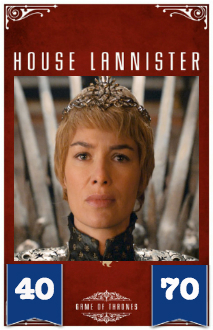
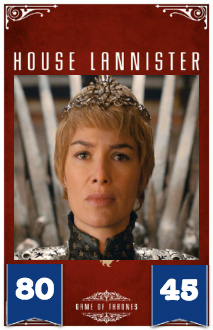
Increase the fourth card

diff --git a/main.js b/main.js
@@ -1,20 +1,21 @@
 // Create the cards
-function card(family, name, power, def, dead) {
+function card(family, name, power, def) {
   this.family = family;
   this.name = name;
   this.power = power;
   this.def = def;
-  this.dead = dead
 }
 
-var jonSnow = new card("stark", "JonSnow", 80, 75, false);
-var aryaStark = new card("stark", "AryaStark", 85, 40, false);
-var sansaStark = new card("stark", "SansaStark", 50, 45, false);
-var cerseiLannister = new card("lannister", "CerseiLannister", 40, 70, false);
-var jaimeLannister = new card("lannister", "JaimeLannister", 75, 85, false);
-var tyrionLannister = new card("lannister", "TyrionLannister", 50, 50, false);
-var starkFamily =[jonSnow, aryaStark, sansaStark];
-var lannisterFamily =[cerseiLannister, jaimeLannister, tyrionLannister];
+var jonSnow = new card("stark", "JonSnow", 80, 75);
+var aryaStark = new card("stark", "Arya", 85, 40);
+var sansaStark = new card("stark", "Sansa", 50, 40);
+var benjenStark = new card("stark", "Benjen", 75, 70)
+var cerseiLannister = new card("lannister", "Cersei", 80, 45 );
+var jaimeLannister = new card("lannister", "Jaime", 75, 80);
+var tyrionLannister = new card("lannister", "Tyrion", 50, 50);
+var tywinLannister = new card("lannister", "Tywin", 70, 75);
+var starkFamily =[jonSnow, aryaStark, sansaStark, benjenStark];
+var lannisterFamily =[cerseiLannister, jaimeLannister, tyrionLannister, tywinLannister];
 
 // Declare global variables
 var player = 0;
@@ -29,9 +30,11 @@ var rand = 0;
 var cpuDeletedCard1;
 var cpuDeletedCard2;
 var cpuDeletedCard3;
+var cpuDeletedCard4;
 var playerDeletedCard1;
 var playerDeletedCard2;
 var playerDeletedCard3;
+var playerDeletedCard4;
 
 
 
@@ -83,20 +86,20 @@ function deployCards(player) {
    if (player == 1) {
       $('#row2').addClass('houseStark');
       $('#row1').addClass('houseLannister');
-       for (let i=0 ; i<3; i++) {
-        $(`<div id="${starkFamily[i].name}" class=${i} data-power=${starkFamily[i].power} data-def=${starkFamily[i].def} data-dead=${starkFamily[i].dead}>`).appendTo('#row2');
+       for (let i=0 ; i<4; i++) {
+        $(`<div id="${starkFamily[i].name}" class=${i} data-power=${starkFamily[i].power} data-def=${starkFamily[i].def}>`).appendTo('#row2');
       }
-       for (let i=0 ; i<3; i++) {
-        $(`<div id="${lannisterFamily[i].name}" class=${i} data-power=${lannisterFamily[i].power} data-def=${lannisterFamily[i].def} data-dead=${lannisterFamily[i].dead}>`).appendTo('#row1');
+       for (let i=0 ; i<4; i++) {
+        $(`<div id="${lannisterFamily[i].name}" class=${i} data-power=${lannisterFamily[i].power} data-def=${lannisterFamily[i].def}>`).appendTo('#row1');
     }
    } else {
       $('#row1').addClass('houseStark');
       $('#row2').addClass('houseLannister');
-      for (let i=0 ; i<3; i++) {
-        $(`<div id="${starkFamily[i].name}" class=${i} data-power=${starkFamily[i].power} data-def=${starkFamily[i].def} data-dead=${starkFamily[i].dead}>`).appendTo('#row1');
+      for (let i=0 ; i<4; i++) {
+        $(`<div id="${starkFamily[i].name}" class=${i} data-power=${starkFamily[i].power} data-def=${starkFamily[i].def}>`).appendTo('#row1');
       }
-       for (let i=0 ; i<3; i++) {
-        $(`<div id="${lannisterFamily[i].name}" class=${i} data-power=${lannisterFamily[i].power} data-def=${lannisterFamily[i].def} data-dead=${lannisterFamily[i].dead}>`).appendTo('#row2');
+       for (let i=0 ; i<4; i++) {
+        $(`<div id="${lannisterFamily[i].name}" class=${i} data-power=${lannisterFamily[i].power} data-def=${lannisterFamily[i].def}>`).appendTo('#row2');
     }
    }
       selectCard(player);
@@ -110,7 +113,6 @@ function selectCard(player) {
     playerCardDef = starkFamily[0].def;
     playerCard = $('#row2 div')[0];
     selection = 0;
-    console.log("cpuDeletedCard1 is" + cpuDeletedCard1 + "cpuDeletedCard2 is" + cpuDeletedCard2 );
     cpuLannisterRandom(cpuDeletedCard1,cpuDeletedCard2,cpuDeletedCard3)
     cardComparing(playerCardPower, playerCardDef, cpuCardPower, cpuCardDef,
       cpuCard, playerCard,rand, cpuDeletedCard1, cpuDeletedCard2, cpuDeletedCard3 )
@@ -133,6 +135,18 @@ function selectCard(player) {
      playerCardDef = starkFamily[2].def;
      playerCard = $('#row2 div')[2];
      selection = 2;
+     console.log(playerCardPower);
+     console.log(playerCardDef);
+     cpuLannisterRandom(cpuDeletedCard1,cpuDeletedCard2,cpuDeletedCard3)
+     cardComparing(playerCardPower, playerCardDef, cpuCardPower, cpuCardDef, cpuCard,
+      playerCard, rand, cpuDeletedCard1, cpuDeletedCard2, cpuDeletedCard3)
+  })
+  $(`#row2 .3`).click(function() {
+    $('#row1 div').css('border', "0");
+     playerCardPower = starkFamily[3].power;
+     playerCardDef = starkFamily[3].def;
+     playerCard = $('#row2 div')[3];
+     selection = 3;
      console.log(playerCardPower);
      console.log(playerCardDef);
      cpuLannisterRandom(cpuDeletedCard1,cpuDeletedCard2,cpuDeletedCard3)
@@ -173,11 +187,22 @@ function selectCard(player) {
      cpuStarkRandom()
      cardComparing(playerCardPower, playerCardDef, cpuCardPower, cpuCardDef, cpuCard, playerCard, rand)
   })
+    $(`#row2 .3`).click(function() {
+    $('#row1 div').css('border', "0");
+     playerCardPower = lannisterFamily[3].power;
+     playerCardDef = lannisterFamily[3].def;
+     playerCard = $('#row2 div')[3];
+     selection = 3;
+     console.log(playerCardPower);
+     console.log(playerCardDef);
+     cpuStarkRandom()
+     cardComparing(playerCardPower, playerCardDef, cpuCardPower, cpuCardDef, cpuCard, playerCard, rand)
+  })
 }
 }
 
 function cpuLannisterRandom(){
-  var arr = [1, 2, 3];
+  var arr = [1, 2, 3, 4];
   rand = Math.random();
   rand *= arr.length;
   rand = Math.floor(rand);
@@ -185,43 +210,43 @@ function cpuLannisterRandom(){
    + "cpuDeletedCard3 is" + cpuDeletedCard3 )
   if (rand == 0 && cpuDeletedCard1 == 1){
      console.log("run through here")
-    cpuLannisterRandom(cpuDeletedCard1, cpuDeletedCard2,cpuDeletedCard3)
+    cpuLannisterRandom()
   } else if (rand == 1 && cpuDeletedCard2 == 1){
     console.log("run through here")
-    cpuLannisterRandom(cpuDeletedCard1, cpuDeletedCard2,cpuDeletedCard3)
+    cpuLannisterRandom()
   } else if (rand == 2 && cpuDeletedCard3 == 1){
     console.log("run through here")
-    cpuLannisterRandom(cpuDeletedCard1, cpuDeletedCard2,cpuDeletedCard3)
+    cpuLannisterRandom()
+  } else if (rand == 3 && cpuDeletedCard4 == 1){
+    cpuLannisterRandom()
   }
   cpuCard = $('#row1 div')[rand];
   $(cpuCard).css('border', "10px solid red");
   cpuCardPower = lannisterFamily[rand].power;
   cpuCardDef = lannisterFamily[rand].def;
-  console.log(cpuCardPower);
-  console.log(cpuCardDef);
 }
 
 function cpuStarkRandom(){
-  var arr = [1, 2, 3];
+  var arr = [1, 2, 3, 4];
   rand = Math.random();
   rand *= arr.length;
   rand = Math.floor(rand);
   if (rand == 0 && cpuDeletedCard1 == 1){
      console.log("run through here")
-    cpuLannisterRandom(cpuDeletedCard1, cpuDeletedCard2,cpuDeletedCard3)
+    cpuLannisterRandom()
   } else if (rand == 1 && cpuDeletedCard2 == 1){
     console.log("run through here")
-    cpuLannisterRandom(cpuDeletedCard1, cpuDeletedCard2,cpuDeletedCard3)
+    cpuLannisterRandom()
   } else if (rand == 2 && cpuDeletedCard3 == 1){
     console.log("run through here")
-    cpuLannisterRandom(cpuDeletedCard1, cpuDeletedCard2,cpuDeletedCard3)
+    cpuLannisterRandom()
+  } else if (rand == 3 && cpuDeletedCard4 == 1){
+    cpuLannisterRandom()
   }
   cpuCard = $('#row1 div')[rand];
   $(cpuCard).css('border', "10px solid red");
   cpuCardPower = starkFamily[rand].power;
   cpuCardDef = starkFamily[rand].def;
-  console.log(cpuCardPower);
-  console.log(cpuCardDef);
 }
 
 function cardComparing() {
@@ -238,15 +263,19 @@ function cardComparing() {
         cpuDeletedCard1 = 1
       } else if (rand == 1){
         cpuDeletedCard2 = 1;
-      }else {
+      }else if (rand == 2){
         cpuDeletedCard3 = 1;
+      } else {
+        cpuDeletedCard4 = 1;
       }
       if (selection == 0){
         playerDeletedCard1 = 1;
       } else if (selection ==1){
         playerDeletedCard2 = 1;
-      } else {
+      } else if (selection ==2){
         playerDeletedCard3 = 1;
+      }else {
+        playerDeletedCard4 =1;
       }
   } else if (playerCardPower >= cpuCardDef) {
       var bannerText = document.getElementById('banner');
@@ -259,8 +288,10 @@ function cardComparing() {
         cpuDeletedCard1 = 1
       } else if (rand == 1){
         cpuDeletedCard2 = 1;
-      }else {
+      }else if (rand == 2){
         cpuDeletedCard3 = 1;
+      } else {
+        cpuDeletedCard4 = 1;
       }
   } else if (cpuCardPower >= playerCardDef) {
       var bannerText = document.getElementById('banner');
@@ -274,11 +305,11 @@ function cardComparing() {
         playerDeletedCard1 = 1;
       } else if (selection ==1){
         playerDeletedCard2 = 1;
-      } else {
+      } else if (selection ==2){
         playerDeletedCard3 = 1;
+      } else {
+        playerDeletedCard4 = 1;
       }
-      console.log(playerCard);
-      console.log(cpuCard);
   } else {
       alert("Draw! Select another card to fight");
   }
@@ -286,24 +317,26 @@ function cardComparing() {
 }
 
 function winCheck() {
-  if (cpuDeletedCard1 == 1 && cpuDeletedCard2 == 1 && cpuDeletedCard3 ==1 &&
-    playerDeletedCard1 == 1 && playerDeletedCard2 == 1 && playerDeletedCard3 ==1) {
+  if (cpuDeletedCard1 == 1 && cpuDeletedCard2 == 1 && cpuDeletedCard3 ==1 && cpuDeletedCard4 ==1 &&
+    playerDeletedCard1 == 1 && playerDeletedCard2 == 1 && playerDeletedCard3 ==1 && playerDeletedCard4 ==1) {
     var bannerText = document.getElementById('banner');
     bannerText.innerHTML = "Tie Game!"
     $(bannerText).css('font-size', "150px")
-    setTimeout(function(){alert("But at leasst Westeros get the peace\nRematch?")}, 1500);
-    alert("But at leasst Westeros get the peace\nRematch?")
+    setTimeout(function(){alert("But at leasst Westeros get the peace\nRematch?")}, 2300);
+    setTimeout(function(){window.location.reload(true)}, 2300);
   }
-  else if (cpuDeletedCard1 == 1 && cpuDeletedCard2 == 1 && cpuDeletedCard3 ==1){
+  else if (cpuDeletedCard1 == 1 && cpuDeletedCard2 == 1 && cpuDeletedCard3 ==1 && cpuDeletedCard4 ==1){
     var bannerText = document.getElementById('banner');
     bannerText.innerHTML = "You Win!"
-     $(bannerText).css('font-size', "150px")
-    setTimeout(function(){alert("Congradulation!! Your family win the thrones\nRematch?")}, 1500);
-  } else if (playerDeletedCard1 == 1 && playerDeletedCard2 == 1 && playerDeletedCard3 ==1){
+    $(bannerText).css('font-size', "150px")
+    setTimeout(function(){alert("Congradulation!! Your family win the thrones\nRematch?")}, 2300);
+    setTimeout(function(){window.location.reload(true)}, 2300);
+  } else if (playerDeletedCard1 == 1 && playerDeletedCard2 == 1 && playerDeletedCard3 ==1 && playerDeletedCard4 ==1){
     var bannerText = document.getElementById('banner');
     bannerText.innerHTML = "You Lose!"
     $(bannerText).css('font-size', "150px")
-    setTimeout(function(){alert("Your family lost this battle\nRematch?" )}, 1500);
+    setTimeout(function(){window.location.reload(true)}, 2300);
+    setTimeout(function(){alert("Your family lost this battle\nRematch?" )}, 2300);
   }
 }
 

diff --git a/style.css b/style.css
@@ -95,55 +95,65 @@ container {
 #row1 {
   display: inline-block;
   height: 400px;
-  width: 850px;
+  width: 100%;
   margin: 0px 100px;
   z-index: 100;
+  padding: 0px 0px;
 }
 
 #row2 {
   display: inline-block;
   height: 400px;
-  width: 850px;
+  width: 1050px;
   margin: 0px 100px;
   z-index: 100;
+  padding: 0px 0px;
 }
 
 #row1 div {
   height: 330px;
   width: 213px;
   float: left;
-  margin: 5px 25px;
+  margin: 5px 20px;
 }
 
 #row2 div {
   height: 330px;
   width: 213px;
   float: left;
-  margin: 5px 25px;
+  margin: 5px 20px;
 }
 
 #JonSnow {
   background-image: url(./images/JonSnow.jpg);
 }
 
-#AryaStark {
+#Arya {
   background-image: url(./images/AryaStark.jpg);
 }
 
-#SansaStark {
+#Sansa {
   background-image: url(./images/SensaStark.jpg);
 }
 
-#CerseiLannister {
+#Cersei {
   background-image: url(./images/CerseiLannister.jpg);
 }
 
-#JaimeLannister {
+#Jaime {
   background-image: url(./images/JaimeLannister.jpg);
 }
 
-#TyrionLannister {
+#Tyrion {
   background-image: url(./images/TyrionLannister.jpg);
+}
+
+#Tywin {
+  background-image: url(./images/TywinLannister.jpg);
+}
+
+#Benjen {
+  background-image: url(./images/BenjenStark.jpg);
 }
 
 #row2 div:hover {
